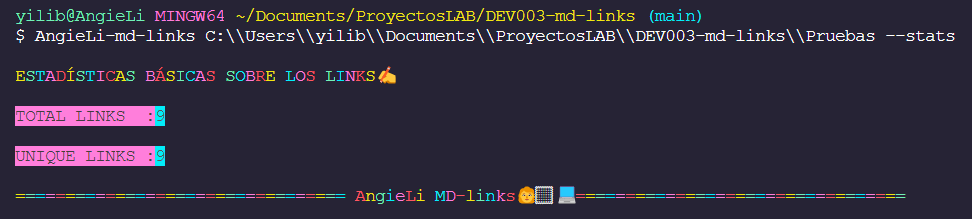
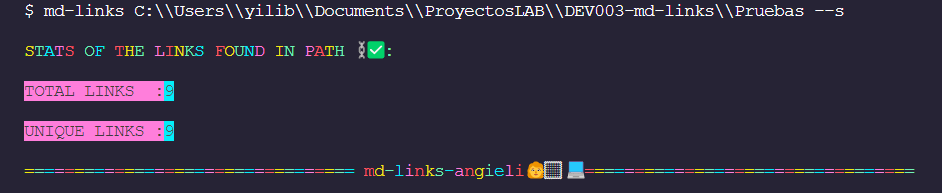
cli y readme terminados ok

diff --git a/CLI.js b/CLI.js
@@ -14,66 +14,80 @@ const path = process.argv[2];
 function cli() {
   const validate = argv.includes('--validate') || argv.includes('--v');
   const stats = argv.includes('--stats') || argv.includes('--s');
+  const all = argv.includes('--all');
   const help = argv.includes('--help') || argv.includes('--h');
 
 
   if (path === undefined || path === "--help" || path === "--h") {
-    console.log((colors.rainbow('\n-------------------------------------------------------------\n                    Welcome to AngieLi MD-links')) + "👩🏻💻" + (colors.rainbow('\n-------------------------------------------------------------')));
+    console.log((colors.rainbow('\n-----------------------------------------------------------------------------------\n                    Welcome to md-links-angieli')) + "👩🏻💻" + (colors.rainbow('\n-----------------------------------------------------------------------------------\n')));
     console.log(colors.bgMagenta('\n🔎Instructions:'));
-    console.log(colors.magenta('1.') + colors.white(' A valid path right after') + colors.blue('  AngieLi-md-links.'));
+    console.log(colors.magenta('1.') + colors.white(' A valid path right after') + colors.blue('  md-links.'));
     console.log(colors.magenta('2.') + colors.white(' To see links route, url, status message, status number and text, write') + colors.blue('  --validate') + colors.white(' or') + colors.blue('  --v') + colors.white(' right after your path.'));
     console.log(colors.magenta('3.') + colors.white(' To see total links number and unique links number, write ') + colors.blue('  --stats') + colors.white(' or') + colors.blue('  --s') + colors.white(' right after your path.'));
     console.log(colors.magenta('4.') + colors.white(' To additionally see broken links number, add') + colors.blue('  --stats --validate') + colors.white(' or') + colors.blue('  --s --v') + colors.white(' right after your path.'));
-    console.log(colors.magenta('5.') + colors.white(' To see these instructions again, you can type') + colors.blue('  --help') + colors.white(' or') + colors.blue('  --h') + colors.white(' right after') + colors.blue('  AngieLi-md-links.'));
-    console.log(colors.rainbow('======================================================================================================='));
+    console.log(colors.magenta('5.') + colors.white(' To see the information of all your links, you must type') + colors.blue('  --all') + colors.white(' , after the path.'));     
+    console.log(colors.magenta('6.') + colors.white(' To see these instructions again, you can type') + colors.blue('  --help') + colors.white('  or') + colors.blue('  --h') + colors.white(' right after') + colors.blue(' md-links.'));
+    console.log(colors.rainbow('==================================================================================================================================='));
 
     process.exit(0);//para salir de la aplicación con éxito.
   }
-  else if (stats && validate) {
+  else if ((stats && validate) || (validate && stats)) {
     return mdLinks(path, { validate: validate, stats }).then((links) => {
-      console.log(colors.rainbow('\nESTADÍSTICAS QUE NECESITAN DE LOS RESULTADOS DE LA VALIDACIÓN'+ "✍"));
+      console.log(colors.rainbow('\nSTATS OF THE LINKS FOUND IN PATH' + emoji.emojify(' ⛓✅:')));
       console.log(colors.bgMagenta('\nTOTAL LINKS  :') + (colors.bgBlue(totalLinks(links))));
       console.log(colors.bgMagenta('\nUNIQUE LINKS :') + (colors.bgBlue(uniqueLinks(links))));
       console.log(colors.bgMagenta('\nBROKEN LINKS :') + (colors.bgBlue(brokenLinks(links))));
-      console.log((colors.rainbow('\n================================= AngieLi MD-links')) + "👩🏻💻" + (colors.rainbow('=================================')));
+      console.log((colors.rainbow('\n================================= md-links-angieli')) + "👩🏻💻" + (colors.rainbow('=================================')));
       process.exit(0);//para salir de la aplicación con éxito.
     }).catch((error) => { console.log(error); })
 
   } else if (stats && !validate) {
     return mdLinks(path, { validate: stats }).then((links) => {
-      console.log(colors.rainbow('\nESTADÍSTICAS BÁSICAS SOBRE LOS LINKS'+ "✍"));
+      console.log(colors.rainbow('\nSTATS OF THE LINKS FOUND IN PATH' + emoji.emojify(' ⛓✅:')));
       console.log(colors.bgMagenta('\nTOTAL LINKS  :') + (colors.bgBlue(totalLinks(links))));
       console.log(colors.bgMagenta('\nUNIQUE LINKS :') + (colors.bgBlue(uniqueLinks(links))));
-      console.log((colors.rainbow('\n================================= AngieLi MD-links')) + "👩🏻💻" + (colors.rainbow('=================================')));
+      console.log((colors.rainbow('\n================================= md-links-angieli')) + "👩🏻💻" + (colors.rainbow('=================================')));
       process.exit(0);
     }).catch((error) => { console.log(error); })
 
   }
   else if (!stats && validate) {
     return mdLinks(path, { validate: validate }).then((links) => {
-      console.log(colors.rainbow('\nVALIDACION DE LINKS'+ "✍"));
+      console.log(colors.rainbow('\nALL VALIDATED LINKS FOUND IN PATH' + emoji.emojify(' ⛓❌:')));
       const brokenLinks = links.filter(link => link.statusText !== 'OK');
       if (brokenLinks.length > 0) {
-        console.log(colors.red('\nENLACES ROTOS:') + (colors.bgRed('  ' + brokenLinks.length)));
+        console.log(colors.red('\nBROKEN LINKS:') + (colors.bgRed('  ' + brokenLinks.length)));
         brokenLinks.forEach(link => {
+          console.log((colors.zebra('\n**************************************************************************************')));
           console.log(colors.bgMagenta('\nHREF :') + (colors.bgBlue(link.href)));
           console.log(colors.bgMagenta('\nFILE :') + (colors.bgBlue(link.file)));
           console.log(colors.bgMagenta('\nSTATUS :') + (colors.bgRed(link.status)));
           console.log(colors.bgMagenta('\nTEXT :') + (colors.bgBlue(link.text)));
-          });
-          console.log((colors.rainbow('\n================================= AngieLi MD-links')) + "👩🏻💻" + (colors.rainbow('=================================')));
+
+        });
+        console.log((colors.rainbow('\n================================= md-links-angieli')) + "👩🏻💻" + (colors.rainbow('=================================')));
         process.exit(1);
       } else {
-        console.log(colors.bgGreen('Todos los enlaces funcionan correctamente.'));      
-        console.log((colors.rainbow('\n================================= AngieLi MD-links')) + "👩🏻💻" + (colors.rainbow('=================================')));  
+        console.log(colors.bgGreen('All links work correctly.'));
+        console.log((colors.rainbow('\n================================= md-links-angieli')) + "👩🏻💻" + (colors.rainbow('=================================')));
         process.exit(0);
       }
     }).catch((error) => { console.log(error); })
-  }
-
-  else {
+  } else if (all) {
+    return mdLinks(path, { validate: all }).then((object) => {
+      console.log(colors.rainbow('\nALL LINKS FOUND IN PATH' + " ✅"));
+      for (let i = 0; i < object.length; i++) {        
+        console.log(colors.bgMagenta('\nHREF  :', object[i].href));
+        console.log('TEXT    :', object[i].text);
+        console.log('FILE    :', object[i].file);
+        console.log('STATUS  :', object[i].status);
+      }
+      console.log((colors.rainbow('\n================================= md-links-angieli')) + "👩🏻💻" + (colors.rainbow('=================================')));
+      process.exit(0);
+    }).catch((error) => { console.log(error); })
+  } else {
     console.log(colors.yellow('This invalid command, if you need help use the command --help or --h'));
-    console.log((colors.rainbow('\n================================= AngieLi MD-links')) + "👩🏻💻" + (colors.rainbow('=================================')));
+    console.log((colors.rainbow('\n================================= md-links-angieli')) + "👩🏻💻" + (colors.rainbow('=================================')));
 
   }
 };

diff --git a/index.js b/index.js
@@ -1,15 +1,16 @@
 const Api = require('./Api.js');
+var colors = require('colors/safe');
 
 const mdLinks = (path, options) => {
   return new Promise((resolve, reject) => {
     if (!Api.isPathValid(path)) {
-      reject(new Error('La ruta ingresada no es válida'));
+      reject(new Error(colors.yellow('The path is invalid .')));
     }
     const absolutePath = Api.convertToAbsolutePath(path);
     let result
     if (Api.isFile(absolutePath)) {
       if (!Api.identificaFileMd(absolutePath)) {
-        reject(new Error('No es un archivo .md'));
+        reject(new Error(colors.yellow('Not an .md file .')));
       }
       const linksMdFile = Api.extractLinksFileMd(absolutePath);
       result = linksMdFile;
@@ -17,7 +18,7 @@ const mdLinks = (path, options) => {
       const linksMdFiles = Api.extractLinks(absolutePath);
       result = linksMdFiles;//se convierte en promesa
     } else {
-      reject(new Error('La ruta ingresada no es un archivo .md ni un directorio'));
+      reject(new Error(colors.yellow('The path entered is neither an .md file nor a directory .')));
     }
     if (!options.validate) {//condición que verifica si la propiedad validate en el objeto options es falsa o no definida.
       resolve(result)

diff --git a/README.md b/README.md
@@ -61,6 +61,11 @@ URL that responds ok, then we will consider the link as ok.
 #### Example:
 ![--validate or --v](./example/validate.png)
 
+If your path does not have broken links, the following message will be displayed:
+
+#### Example:
+![--validate or --v](./example/validateok.png)
+
 
 ##### `--stats` or `--s`
 
@@ -76,8 +81,14 @@ We can also combine `--stats` and `--validate` to get statistics that
 need the validation results.
 
 #### Example:
-![--stats --validate](./example/stats%26validate.png)
+![--stats --validate](./example/v-s.png)
 
+
+##### `--all` 
+If you type the command `--all`, you will see all the links in the path with four properties: href, text, file and status.
+
+#### Example:
+![--stats --validate](./example/allLinks.png)
 
 ## 6. Errors
 
@@ -85,6 +96,12 @@ The program will indicate if it doesn't write any command.
 
 #### Example:
 ![Mensaje de error](./example/error.png)
+
+Below you can see other possible errors.
+
+#### Example:
+![Mensaje de error](./example/pathInvalid.png)
+![Mensaje de error](./example/notFile.png)
 
 
 ## 7. Author

diff --git a/Pruebas/directory/archivoDirectorio.md b/Pruebas/directory/archivoDirectorio.md
@@ -7,4 +7,4 @@ las siguientes propiedades
 [promesas](https://developer.mozilla.org/es/docs/Web/JavaScript/Guide/Using_promises)
 [página web](https://angieli13.github.io/DEV003-data-lovers/)
 [html](https://es.wikipedia.org/wiki/HTML)
-[404](https://angieli13.github.io/DEV003)
+[Doesn't exist](https://angieli13.github.io/DEV003)
